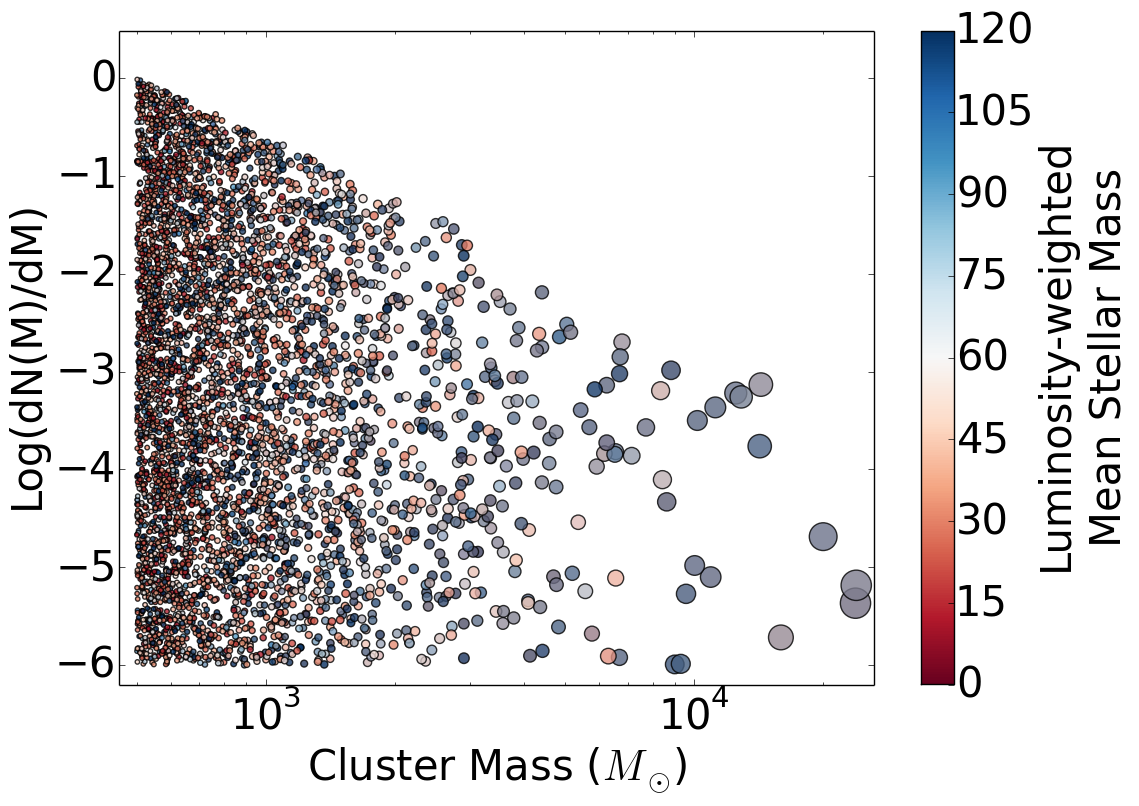
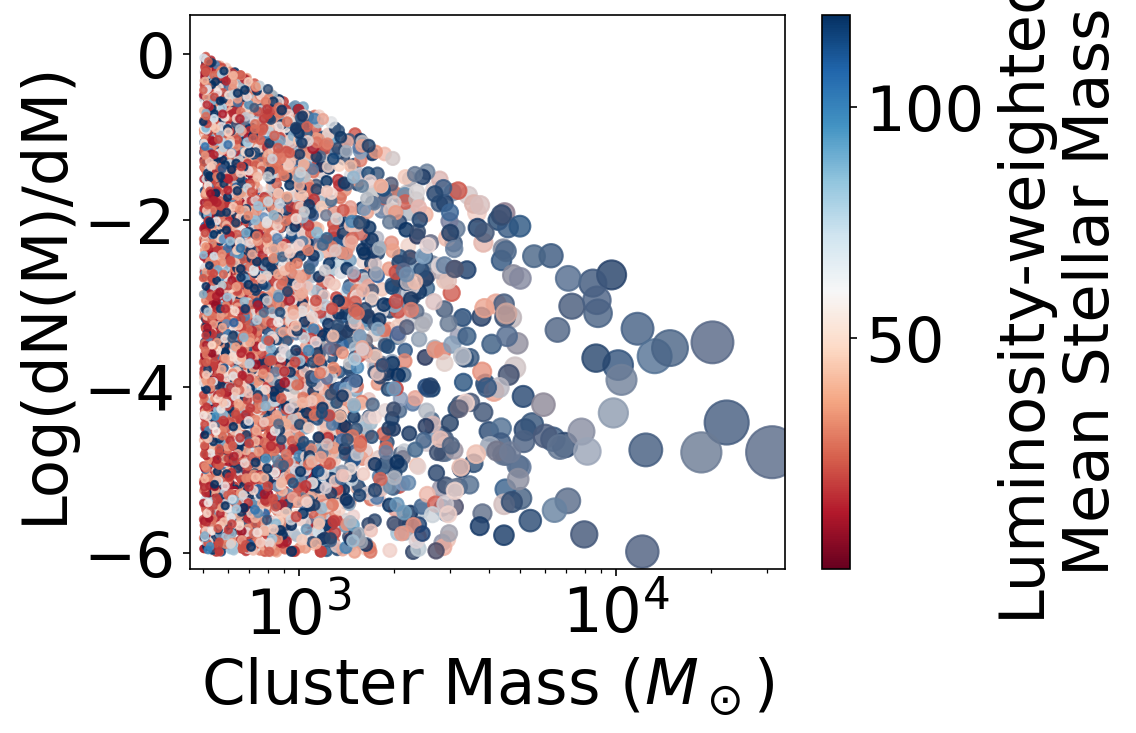
updated to cluter figures

diff --git a/examples/clustermf_figure.py b/examples/clustermf_figure.py
@@ -7,7 +7,7 @@ if __name__ == "__main__":
     alpha = 2
     m0 = 5e2
     mmax = 5e5
-    cluster_mass_xax = np.logspace(np.log10(m0),np.log10(mmax),1e4)
+    cluster_mass_xax = np.geomspace(m0, mmax, int(1e4))
     def pr(m):
         return (m/m0)**-alpha
     probabilities = pr(cluster_mass_xax)
@@ -28,7 +28,8 @@ if __name__ == "__main__":
         cr = np.log10(mmax)-np.log10(mmin)
         lm = np.log10(mass)-np.log10(mmin)
         return pl.cm.RdBu(lm/cr)
-    colors = [color_of_cluster(c,ctable) for c in clusters]
+    colors = np.array([color_of_cluster(c,ctable) for c in clusters])
+    colors[colors > 1] = 1
 
     yax = [np.random.rand()*(np.log10(pr(m))-np.log10(pr(mmax))) + np.log10(pr(mmax)) for m in cluster_masses]
 

diff --git a/imf/imf.py b/imf/imf.py
@@ -556,7 +556,8 @@ def make_cluster(mcluster,
 
     if sampling == 'optimal':
         # this is probably not _quite_ right, but it's a first step...
-        p = np.linspace(0, 1, int(mcluster/expected_mass))
+        # 1-1/n so that we never include m_max, only m_max_cl
+        p = np.linspace(0, 1-expected_mass/mcluster, int(mcluster/expected_mass))
         return mfc.distr.ppf(p)
     elif sampling != 'random':
         raise ValueError("Only random sampling and optimal sampling are supported")
